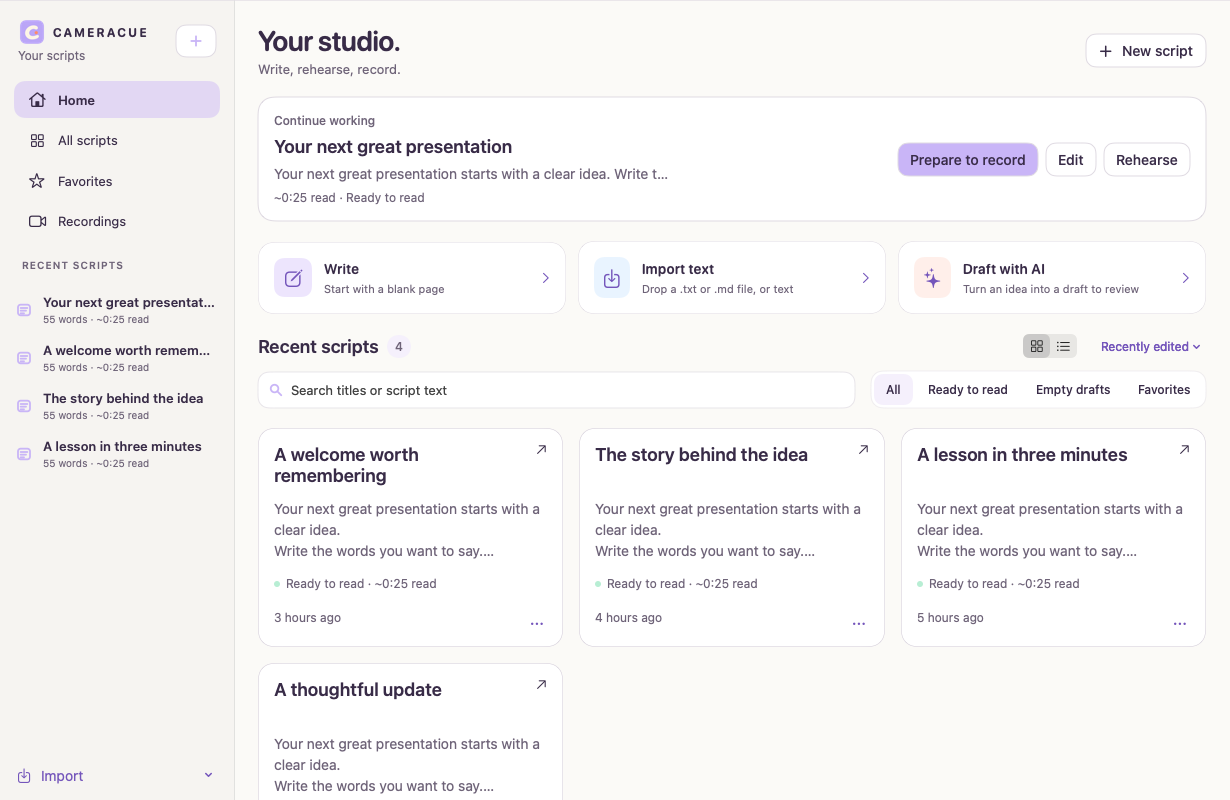
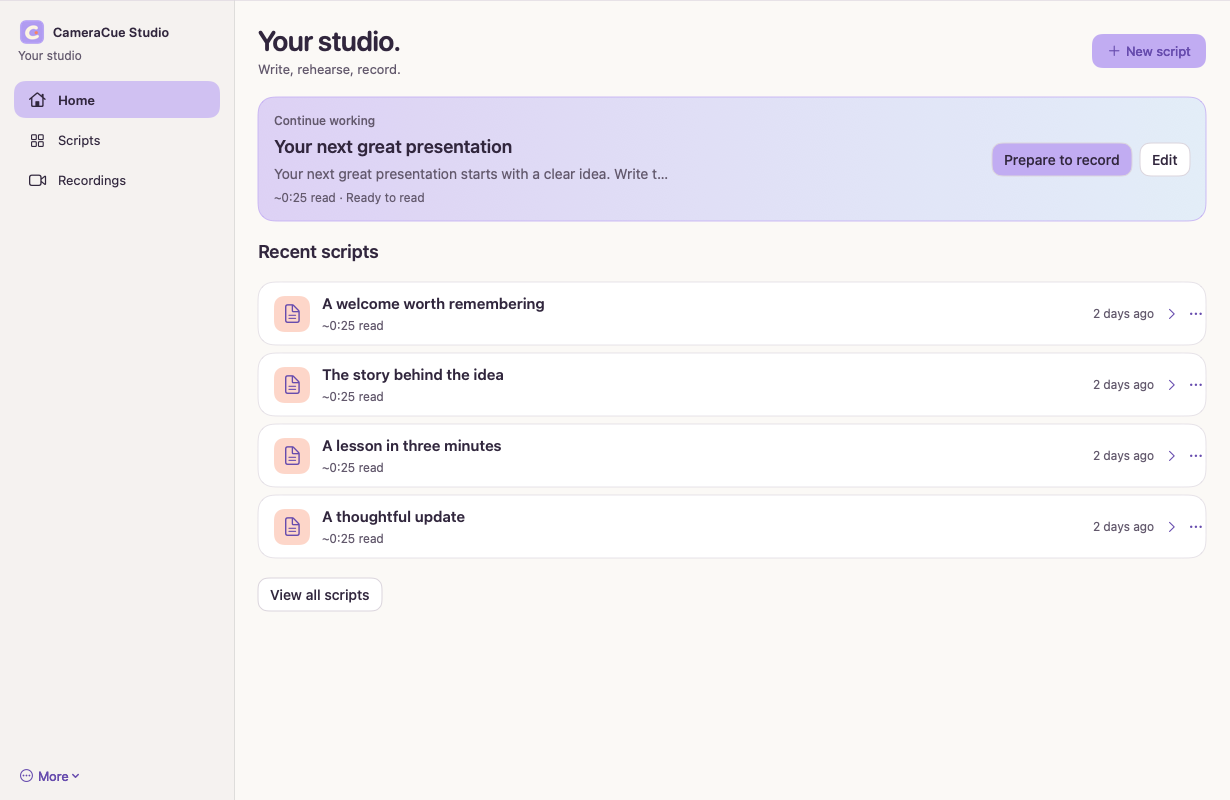
Polish take setup copy and refresh GitHub documentation

diff --git a/Sources/TeleprompterApp/PresentationWorkspace.swift b/Sources/TeleprompterApp/PresentationWorkspace.swift
@@ -135,9 +135,9 @@ struct PresentationWorkspace: View {
                     .font(.caption).foregroundStyle(StudioPalette.mutedInk)
             } else if model.phase == .finished {
                 Text("Finished").font(.title3.bold())
-                Button { model.reset() } label: { StudioLabel(model.isRestartingTake ? "Restarting…" : model.video.enabled ? "Record another take" : "Practice again", .restart) }.buttonStyle(StudioButtonStyle(primary: true)).disabled(model.video.isBusy || model.isRestartingTake)
+                Button { model.reset() } label: { StudioLabel(model.isRestartingTake ? "Restarting…" : model.video.enabled ? "Prepare another take" : "Practice again", .restart) }.buttonStyle(StudioButtonStyle(primary: true)).disabled(model.video.isBusy || model.isRestartingTake)
                 Button { step = .write } label: { StudioLabel("Return to script", .back) }.buttonStyle(StudioButtonStyle()).disabled(model.isRestartingTake)
-                Text("Practice again returns to Ready. Your microphone stays off until you start.").font(.caption).foregroundStyle(StudioPalette.mutedInk)
+                Text(model.video.enabled ? "Return to setup. Your camera and microphone stay off until you press Record." : "Practice again returns to Ready. Your microphone stays off until you start.").font(.caption).foregroundStyle(StudioPalette.mutedInk)
             } else {
                 TimelineView(.periodic(from: .now, by: 1)) { context in
                     let snapshot = model.snapshot(at: context.date)

diff --git a/docs/ACCEPTANCE.md b/docs/ACCEPTANCE.md
@@ -1,6 +1,14 @@
 # Verification and remaining acceptance work
 
-Updated October 5, 2026. This file is tracked so verification references remain accessible from a fresh clone. Machine-specific logs and private media are intentionally not published.
+Updated October 7, 2026. This file is tracked so verification references remain accessible from a fresh clone. Machine-specific logs and private media are intentionally not published.
+
+## Current checkpoint — October 7
+
+The user completed short recordings on October 6 after the audio-tap and preview fixes. Native inspection confirmed a saved take in the recordings library, and another completed take showed a 22-second duration, **Video saved**, **Saved to Movies → CameraCue**, playback and Finder actions in Studio. This establishes that short-take recording/export completed on the development Mac. Audio synchronization, sustained live frame rate and speech-to-highlight latency were not measured in these checks.
+
+The latest implementation at `79b5139` passed [Mac CI](https://github.com/JoshuaColePhD/CameraCue/actions/runs/37472080601), including native tests, Voice Follow regression gates, package/signature verification and the scoped confidence-model gate. Earlier permission failures below are historical findings, not the current recording outcome. Developer ID notarization and wider hardware acceptance remain pending.
+
+The October 7 polish pass also reran the full native suite and frozen Voice Follow gate locally with zero failures. Production Home screenshots at 1230 × 800 and 900 × 680 and the reader screenshot were rendered from isolated sample scripts and inspected; the transcript-replay GIF was regenerated. No private script or recording was included in the documentation media. The completed-take setup action now says **Prepare another take**, matching its behavior.
 
 ## Completed in this pass
 
@@ -20,7 +28,7 @@ Updated October 5, 2026. This file is tracked so verification references remain 
 
 The code and replay results provide specific evidence, not a claim that every UI flow or hardware configuration is flawless.
 
-## Current recording-readiness check
+## Earlier recording-readiness check — October 5
 
 The installed CameraCue Studio release was inspected natively in Ready. Preparing a take does not start capture. With explicit permission for a short local camera/microphone test, microphone setup remained pending without a visible dialog even though System Settings showed its grant enabled. It eventually completed; camera preview then remained in preparation and was cancelled by leaving Record. No MP4 was saved in this attempt.
 
@@ -45,7 +53,7 @@ Ongoing balanced-quality person segmentation now runs on its own serial worker. 
 On the same local 60-frame camera clip, frame-processing median/p95 changed from 14.43/27.58 ms to 3.35/3.98 ms in focused runs. The initial mask still cost 88 ms in the latter run; it occurs during camera startup. These are local fixture processing costs, not measured live capture FPS, AVFoundation frame drops, or saved-video frame-rate guarantees. The full native regression passed, including generated MP4 export, subject/background preservation, bounded worker/reset tests and the audio-thread regression. Installed release signature and executable equality were verified.
 
 The patched app launches and reaches Record setup, but still reports microphone setup needed after the ad hoc rebuild. A fresh live recording and perceptual preview check remain required; the existing stable-local-signing decision is still pending. No successful recording is claimed from these tests.
-# Save confirmation and pacing feedback — October 6, 2026
+## Save confirmation and pacing feedback — October 6, 2026
 
 - Restart take: refresh control in the expanded notch footer and Studio during a take. It saves the previous MP4, resets script/timing, then starts a distinct recording with the existing count-in preference. Navigation stays locked during restart; duplicate requests are ignored. Save failure prevents another capture and preserves recovery. Verified with isolated capture/export fixtures (25 focused recording/presentation tests passed); no new live recording was made for this change.
 

diff --git a/README.md b/README.md
@@ -27,10 +27,12 @@ Built for educators, creators, professionals, and anyone who wants a more comfor
 
 1. **Write.** Start a script, import text, or develop an idea with AI. Add emphasis, pauses, and delivery cues without changing your spoken wording during formatting.
 2. **Rehearse.** Adjust the reader, choose a time target, and practice. Voice Follow tracks your speech; manual controls remain available.
-3. **Present.** Check your camera and microphone, then record. Keep the script near the lens and use pacing hints to watch your timing.
+3. **Record.** Check your camera and microphone, then record. Keep the script near the lens and use pacing hints to watch your timing.
 4. **Review.** Play back the saved MP4, find it in Finder, or try a different background and export a new version.
 
 Preparing a take opens the setup screen; it does not start recording. Pausing the prompter leaves video recording running, and Stop finishes and saves the take.
+
+Made a mistake? **↻ Restart take** saves the interrupted take and begins a new recording from the top, using your count-in setting. Saving errors retain a recoverable original instead of starting another recording. After a successful save, the notch confirms **Video saved** and collapses; Studio keeps the playback and actual save location visible.
 
 ## What you can do
 
@@ -102,7 +104,7 @@ On the held-out transcript replay, the revised tracker stayed within two tokens 
 
 ### Machine-learning work in progress
 
-An [AMI real-audio pilot](docs/evaluation/ami-pilot/README.md) compares standard and fast on-device SpeechAnalyzer reporting at 1x playback, with speaker-separated data and explicit timing provenance. Local pace calibration and timestamped recording feedback are implemented in the development build. Confidence-model promotion, legacy-engine comparison, and final hardware acceptance are still in progress; these are not claims of general production accuracy.
+An [AMI real-audio pilot](docs/evaluation/ami-pilot/README.md) compares standard and fast on-device SpeechAnalyzer reporting at 1x playback, with speaker-separated data and explicit timing provenance. Local pace calibration and timestamped recording feedback are implemented in the development build. An optional confidence model is scoped to short scripts and remains off by default; the legacy-engine comparison and broader hardware acceptance remain incomplete. The pilot does not establish general production accuracy.
 
 The AMI evaluation data and experimental weights carry CC BY 4.0 attribution. CameraCue source code remains MIT. Raw corpus audio and user recordings are excluded from the repository and application bundle.
 
@@ -147,7 +149,7 @@ The [Mac CI workflow](https://github.com/JoshuaColePhD/CameraCue/actions/workflo
 
 Graphics and encoding tests need access to macOS services. Private recorded-clip checks skip when their local fixture is unavailable; the repository intentionally excludes those videos. Automated tests do not start a live camera or microphone.
 
-Live speech recognition, dual-stream recording, lengthy takes, audio synchronization by listening, and varied monitor arrangements remain [hardware acceptance checks](docs/ACCEPTANCE.md). Background segmentation can soften fine edges, and offline processing may take longer than the clip's running time.
+Short recordings have been saved on the development Mac. Live speech accuracy/latency, lengthy takes, audio synchronization by listening, and varied monitor arrangements remain [hardware acceptance checks](docs/ACCEPTANCE.md). Background segmentation can soften fine edges, and offline processing may take longer than the clip's running time.
 
 ---
 
